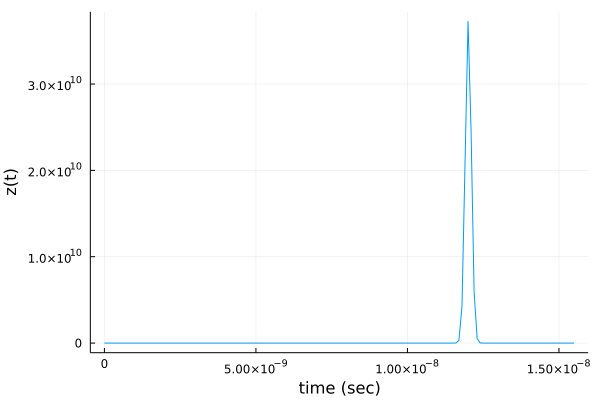
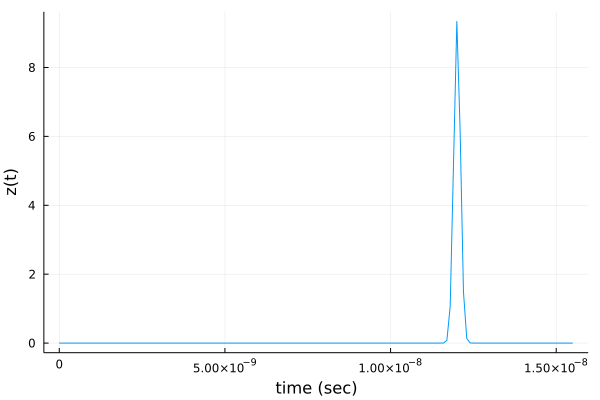
updated scenario B plots and formulation

diff --git a/docs/src/omniDirectionalLTI/omnidirLTIsource.md b/docs/src/omniDirectionalLTI/omnidirLTIsource.md
@@ -11,13 +11,13 @@
   * single stationary ideal point reflector
   * the source emits an impulse
 
-Given the scenario A assumptions, we simulated the scenario as follows.
+Given the scenario A assumptions, we simulated the geometry of scenario as follows.
 
 ![](https://raw.githubusercontent.com/NMSU-ISA/LTVsystems/main/docs/src/assets/scenarioA.png)
 
 ### Forward Modeling
 
-For scenario A, given the position of the source $𝐩ₛ$, the receiver $𝐩ᵣ$ being at the same location $(𝐩ₛ=𝐩ᵣ)$, by providing the transmitted signal $p(t)$, and an ideal point reflector $\bm{\xi}_0$. We obtained the expression for the reflector function as follows
+For scenario A, given the position of the source $𝐩ₛ$, the receiver $𝐩ᵣ$ being at the same location $(𝐩ₛ=𝐩ᵣ)$, by providing the transmitted signal $p(t)$, and an ideal point reflector $\bm{\xi}_0$, we obtained the expression for the reflector function as follows
 
 $f(\bm{\xi}) = \alpha_0 \delta(\bm{\xi} - \bm{\xi}_0)$
 
@@ -45,7 +45,7 @@ $z(t) = \alpha_0 \mathrm{A}^2
 \left(\frac{\|\bm{p}_\mathrm{r}-\bm{\xi}_0\|}
 {\mathrm{c}}\right)p\left(t -2\frac{\|\bm{p}_\mathrm{r}-\bm{\xi}_0\|}{\mathrm{c}}\right)$
 
-Now we plot the signal at the receiver as follows.
+We plot the signal at the receiver as follows.
 
 ```julia
 using LTVsystems
@@ -70,8 +70,7 @@ $\hat{f}(\bm{\xi}) = \dfrac{z\left(\frac{2\|\bm{\xi}-\bm{p}_\mathrm{r}\|}{\mathr
 {\mathrm{A}^2(\frac{\|\bm{\xi}-\bm{p}_\mathrm{r}\|}{\mathrm{c}})}$
 
 ```julia
-using ISA, LTVsystems
-using Plots
+using LTVsystems
 𝐩ₛ =  [0.0, 0.0]
 𝐩ᵣ =  𝐩ₛ
 p(t) = δn(t,1.0e-10)
@@ -95,10 +94,32 @@ inverse2Dplot([q],[r],[z],f)
 * single stationary ideal point reflector
 * the source emits an ideal impulse
 
+Given the scenario B assumptions, we simulated the geometry of scenario as follows.
+
+![](https://raw.githubusercontent.com/NMSU-ISA/LTVsystems/main/docs/src/assets/scenarioB.png)
+
 ### Forward Modeling
 
-Given scenario B assumptions with the position of the source $𝐩ₛ$, the receiver $𝐩ᵣ$, by providing the transmitted signal  $p(t)=δ(t)$ as an ideal impulse,
-and an ideal point reflector $\bm{\xi}_0$.
+For scenario B, given the position of the source $𝐩ₛ$, the receiver $𝐩ᵣ$, by providing the transmitted signal $p(t)$, and an ideal point reflector $\bm{\xi}_0$, we obtained the expression for the reflector function as follows
+
+$f(\bm{\xi}) = \alpha_0 \delta(\bm{\xi} - \bm{\xi}_0)$
+
+The signal observed at position $\bm{\xi}$ and time $t$ due to the source emitting from position $\bm{p}_\mathrm{s}$ is given as follows.
+
+$q(\bm{\xi},t)=\mathrm{A}\left(\frac{\|\bm{\xi}-\bm{p}_\mathrm{s}\|}
+{\mathrm{c}}\right) p\left(t-\frac{\|\bm{\xi}-\bm{p}_\mathrm{s}\|}{\mathrm{c}}\right)$
+
+Mathematically, we defined the reflection due to the source as follows.
+
+$r(\bm{\xi},t) = \alpha_0 \delta(\bm{\xi} - \bm{\xi}_0)
+\mathrm{A}\left(\frac{\|\bm{\xi}-\bm{p}_\mathrm{s}\|}
+{\mathrm{c}}\right) p\left(t-\frac{\|\bm{\xi}-\bm{p}_\mathrm{s}\|}{\mathrm{c}}\right)$
+
+Now the signal observed at $\bm{p}_\mathrm{r}$ due to the reflection from the position $\bm{\xi}$ is given as follows.
+
+$\psi(\bm{\xi},t) = \mathrm{A}\left(\frac{\|\bm{p}_\mathrm{r}-\bm{\xi}\|}{\mathrm{c}}\right) r\left(\bm{\xi},t-\frac{\|\bm{p}_\mathrm{r}-\bm{\xi}\|}{\mathrm{c}}\right)$
+
+
 We obtained the closed form expression of the observed signal, $z(t)$ as follows.
 
 $z(t) = \alpha_0 \mathrm{A}\left(\frac{\|\bm{p}_\mathrm{r}-\bm{\xi}_0\|}{\mathrm{c}}\right)
@@ -107,18 +128,18 @@ $z(t) = \alpha_0 \mathrm{A}\left(\frac{\|\bm{p}_\mathrm{r}-\bm{\xi}_0\|}{\mathrm
 \frac{\|\bm{p}_\mathrm{r}-\bm{\xi}_0\|+\|\bm{\xi}_0-
 \bm{p}_\mathrm{s}\|}{\mathrm{c}}\right)$
 
-We can simulate the scenario and plot signal at the receiver as follows.
+We plot signal at the receiver as follows.
 
 ```julia
-using ISA, LTVsystems
+using LTVsystems
 using Plots
 𝐩ₛ =  [1.0, 0.0]
 𝐩ᵣ =  [-1.0, 0.0]
-p(t) = δ(t,1.0e-10)
+p(t) = δn(t,1.0e-10)
 q = LTIsourceO(𝐩ₛ, p)
 α₀ = 0.7; 𝛏₀ = [1.8,0.0]
-R₁ = LTIsourceO(𝛏₀, t->α₀*q(𝛏₀,t))
-z = LTIreceiverO([R₁],𝐩ᵣ)
+r = pointReflector(𝛏₀,α₀,[q])
+z = LTIreceiverO([r],𝐩ᵣ)
 t = collect(0.0:1.0e-10:15.5e-9)
 plot( t, z(t), xlab="time (sec)", ylab="z(t)", legend=:false)
 ```
@@ -126,7 +147,7 @@ plot( t, z(t), xlab="time (sec)", ylab="z(t)", legend=:false)
 
 ### Inverse Modeling
 
-Given the scenario B assumptions, we obtained the received signal, $z(t)$. Now we can estimate the reflector function as follows.
+Given the scenario B assumptions, we obtained the received signal, $z(t)$. Now we can estimate the reflector function by considering the transmitted signal $p(t)=δ(t)$ as follows.
 
 $\hat{f}(\bm{\xi}) = \dfrac{z\left(\frac{\|\bm{p}_\mathrm{r}-
 \bm{\xi}\|+\|\bm{\xi}-\bm{p}_\mathrm{s}\|}
@@ -134,30 +155,17 @@ $\hat{f}(\bm{\xi}) = \dfrac{z\left(\frac{\|\bm{p}_\mathrm{r}-
 \mathrm{A}(\frac{\|\bm{p}_\mathrm{r}-\bm{\xi}\|}{\mathrm{c}})}$
 
 ```julia
-using ISA, LTVsystems
-using Plots
+using LTVsystems
 𝐩ₛ =  [1.0, 0.0]
 𝐩ᵣ =  [-1.0, 0.0]
-p(t) = δ(t,1.0e-10)
+p(t) = δn(t,1.0e-10)
 q = LTIsourceO(𝐩ₛ, p)
 α₀ = 0.7; 𝛏₀ = [1.8,0.0]
-R₁ = LTIsourceO(𝛏₀, t->α₀*q(𝛏₀,t))
-z = LTIreceiverO([R₁],𝐩ᵣ)
-a₁(ξ::Vector{Float64}) = A(distBetween(ξ,𝐩ₛ)./lightSpeed).*A(distBetween(𝐩ᵣ,ξ)./lightSpeed)
-f(ξ::Vector{Float64})=(z((distBetween(ξ,𝐩ₛ) .+ distBetween(𝐩ᵣ,ξ))./lightSpeed))./(a₁(ξ::Vector{Float64}))
-Δpos = 0.01
-x_range = collect(-3:Δpos:3)
-y_range = collect(-2:Δpos:2)
-xyGrid = [[x, y] for x in x_range, y in y_range]
-val = [f(𝐮) for 𝐮 ∈ xyGrid]
-p2 = plot(x_range,y_range,transpose(val),st=:surface,camera=(0,90),
-         aspect_ratio=:equal,legend=true,zticks=false,bg = RGB(0.1, 0.1, 0.1))
-scatter!(p2,[𝐩ₛ[1]], [𝐩ₛ[2]],markersize = 8.5,color = :green,
-         marker=:pentagon, label='s' )
-scatter!(p2,[𝐩ᵣ[1]], [𝐩ᵣ[2]],markersize = 5.5,color = :blue,
-         marker=:square, label='r' )
-scatter!(p2,[𝛏₁[1]],[𝛏₁[2]],markersize = 8.5,color = :red,
-        marker=:star8, label='t')
+r = pointReflector(𝛏₀,α₀,[q])
+z = LTIreceiverO([r],𝐩ᵣ)
+f(ξ::Vector{Float64})=(z((norm(ξ-𝐩ₛ) .+ norm(𝐩ᵣ-ξ))./c))./
+                       A(norm(ξ-𝐩ₛ)./c).*A(norm(𝐩ᵣ-ξ)./c)
+inverse2Dplot([q],[r],[z],f)
 ```
 ![](https://raw.githubusercontent.com/NMSU-ISA/LTVsystems/main/docs/src/assets/scenarioB_simulation.png)
 
